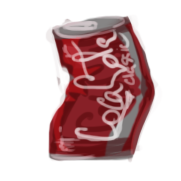
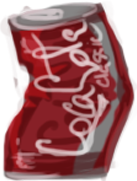
scales are right

diff --git a/entities/supermassive_trash.py b/entities/supermassive_trash.py
@@ -10,19 +10,19 @@ from fwk.game.entity import GameEntity
 class SupermassiveTrash(GameEntity,
                         GameEntity.mixin.Sprite,
                         BigEntity):
-    _radius = random.randint(128, 256)
 
     supermassive_trash_imgs = [
         "supermassive-trash1.png",
         "supermassive-trash2.png",
+        "supermassive-trash3.png",
         "trash4.png",
         "trash5.png"
     ]
 
     def spawn(self):
-        self.radius = self._radius
+        self.radius = random.randint(128, 256)
         self.mass = 0.1*self.radius
         self.sprite = 'rc/img/' + self.supermassive_trash_imgs[random.randint(0, len(self.supermassive_trash_imgs)-1)]
-        self.sprite.width = self.radius*2
-        self.sprite.height = self.radius*2
+        targetScale = float(self.radius*2)/self.sprite.width
+        self.scale = targetScale
         self.spriteAnchor = "center"

diff --git a/entities/trash.py b/entities/trash.py
@@ -13,7 +13,6 @@ class Trash(GameEntity,
             GameEntity.mixin.Sprite,
             StandardSpaceEntity,
             SmallEntity):
-    _radius = random.randint(32, 64)
 
     trashImgs = [
         "trash1.png",
@@ -29,11 +28,11 @@ class Trash(GameEntity,
         self.suicide()
 
     def spawn(self):
-        self.radius = self._radius
+        self.radius = random.randint(32, 64)
         self._resource = self.radius*0.25
         self.sprite = 'rc/img/' + self.trashImgs[random.randint(0, len(self.trashImgs)-1)]
-        self.sprite.width = self.radius*2
-        self.sprite.height = self.radius*2
+        targetScale = float(self.radius*2)/self.sprite.width
+        self.scale = targetScale
         self.spriteAnchor = "center"
 
     def suicide(self):
